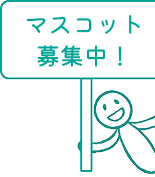
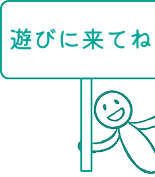
マスコットページ閉じる

Changed region(s): [[0.1548, 0.0847, 0.8, 0.3955], [0.8258, 0.0847, 0.9806, 0.2825], [0.0516, 0.1412, 0.2065, 0.2825]]

diff --git a/teaser/index.html b/teaser/index.html
@@ -74,9 +74,7 @@
         </div>
         <section class="contents">
             <div class="icon">
-                <a href="/mascot/">
-                    <img src="./img/top/recruiting_icon.png" alt="マスコット募集予定！">
-                </a>
+                <img src="./img/top/recruiting_icon.png" alt="遊びに来てね！">
             </div>
             <section class="about" id="About">
                 <div class="inner">
@@ -93,10 +91,11 @@
             </section>
             <section class="mascot">
                 <div class="inner">
-                    <h2 class="ttl">マスコットキャラクター募集中！</h2>
+                    <h2 class="ttl">マスコットキャラクターの募集を締め切りました</h2>
                     <p class="txt">
-                        「医療×ざっかふぇす」を盛り上げるための公式マスコットキャラクターを公募中！<br>
-                        マスコットを描いて、「医療×ざっかふぇす」を盛り上げよう！
+                        たくさんのご応募ありがとうございました！<br>
+                        医療×ざっかふぇす当日に作品の投票を行います！<br>
+                        ぜひ当日の投票にご参加ください
                     </p>
                     <div class="button accent">
                         <a href="./mascot/">マスコットキャラクター企画</a>

diff --git a/teaser/mascot/index.html b/teaser/mascot/index.html
@@ -53,7 +53,7 @@
 	</header>
 	<main class="page">
 		<section class="main">
-			<h2 class="main_ttl">マスコットキャラクター企画</h2>
+			<h2 class="main_ttl">マスコットキャラクター企画<br><span>応募は終了いたしました</span></h2>
 		</section>
 		<article class="contents">
 			<p class="lead">
@@ -149,7 +149,8 @@
 					<div class="label_box">
 						<dt>募集期間</dt>
 						<dd>
-							2025年3月10日（月）～2025年3月30日（日）23:59まで  
+							<s>2025年3月10日（月）～2025年3月30日（日）23:59まで</s><br>
+							<strong>※終了しました。たくさんの応募ありがとうございました</strong>
 						</dd>
 					</div>
 					<div class="label_box">
@@ -329,7 +330,7 @@
 					<a href="mailto:info@iryozakka.com?subject=マスコットキャラクター応募について">info@iryozakka.com</a>
 				</p>
 
-				<div class="button accent">
+				<div class="button gray">
 					<a href="https://docs.google.com/forms/d/e/1FAIpQLSeRh9c_GhSFsMOfSHdFe0c0hfmjnjXCV-pQr1lUURlluyeBeQ/viewform?usp=sharing" target="_blank">マスコットを応募する</a>
 				</div>
 			</section>

diff --git a/teaser/css/mascot.css b/teaser/css/mascot.css
@@ -129,11 +129,13 @@
     margin-bottom: 4%;
   }
 }
-.contents .text_box .accent {
+.contents .text_box .accent,
+.contents .text_box .gray {
   margin: 40px auto 0;
 }
 @media screen and (max-width: 840px) {
-  .contents .text_box .accent {
+  .contents .text_box .accent,
+  .contents .text_box .gray {
     margin-bottom: 5%;
   }
 }

diff --git a/teaser/scss/mascot.scss b/teaser/scss/mascot.scss
@@ -121,7 +121,8 @@
                 }
             }
         }
-        .accent{
+        .accent,
+        .gray{
             margin: 40px auto 0;
             @include m.max-screen(v.$tab) {
                 margin-bottom: 5%;
